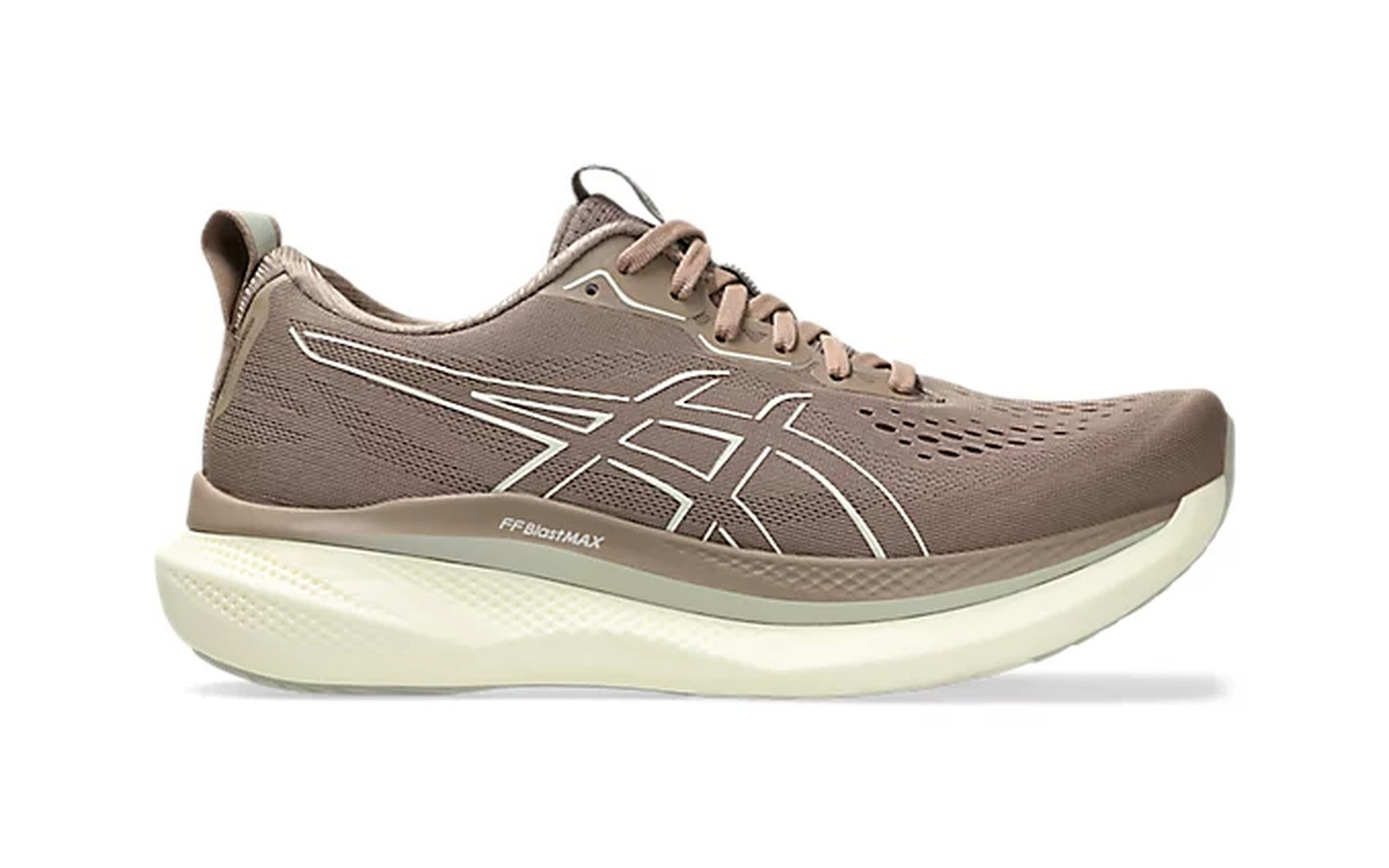
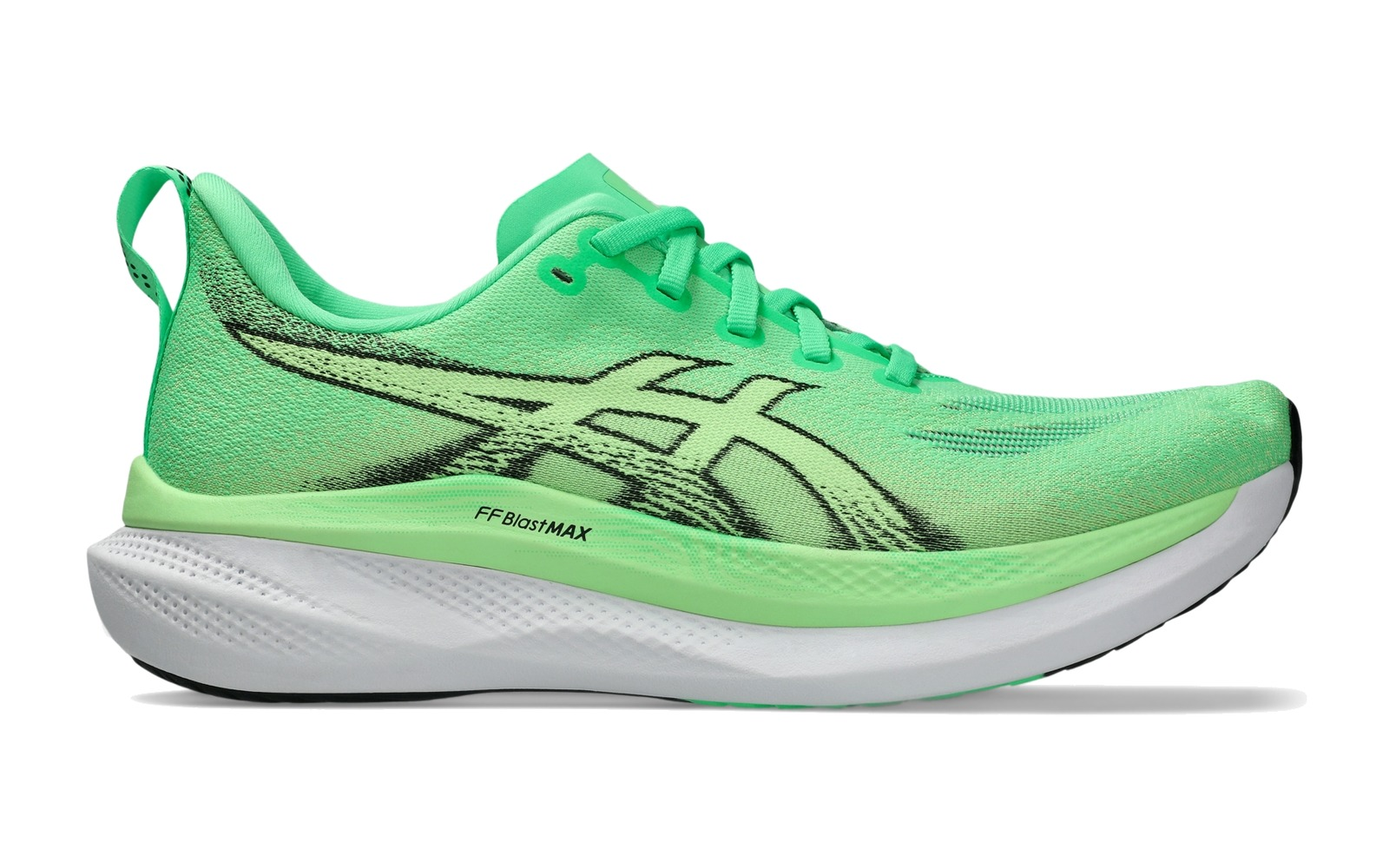
Research and replace weak shoe images

diff --git a/data/shoes.js b/data/shoes.js
@@ -7,7 +7,7 @@
 
   const SOURCE_POST =
     "https://gall.dcinside.com/mgallery/board/view/?id=running&no=1042108&page=1";
-  const IMAGE_VERSION = "20260529-official-side-3";
+  const IMAGE_VERSION = "20260530-image-research-1";
 
   const officialImages = {
     "adidas-sl-2": {"imageUrl": "https://assets.adidas.com/images/w_1880,f_auto,q_auto/cfd913d7af534d5e9177b2b5ac21b59a_9366/Adizero_SL2_Running_Shoes_Black_IF6761_HM1.jpg", "imageSourceUrl": "https://www.adidas.de/en/adizero-sl2-running-shoes/IF6761.html", "officialProductUrl": "https://www.adidas.de/en/adizero-sl2-running-shoes/IF6761.html", "displayName": "Adizero SL2", "imageFit": "contain", "imagePosition": "center", "imageScale": 0.94},
@@ -26,18 +26,18 @@
     "adidas-하이퍼부스트-엣지": {"imageUrl": "https://assets.adidas.com/images/w_1880,f_auto,q_auto/40bc238de20b46a7883c27238e9d13f1_9366/KI1916_01_00_standard.jpg", "imageSourceUrl": "https://www.adidas.com/us/hyperboost-edge-running-shoes/KI1916.html", "officialProductUrl": "https://www.adidas.com/us/hyperboost-edge-running-shoes/KI1916.html", "displayName": "Hyperboost Edge", "imageFit": "contain", "imagePosition": "center", "imageScale": 0.94},
     "asics-gt2000-14": {"imageUrl": "https://www.asics.com/nz/en-nz/media/catalog/product/image/148865b523/gt-2000-14-2e-wide.jpg", "imageSourceUrl": "https://www.asics.com/nz/en-nz/gt-2000-14-2e-mens-1011c055-400", "officialProductUrl": "https://www.asics.com/nz/en-nz/gt-2000-14-2e-mens-1011c055-400", "displayName": "GT-2000 14", "imageFit": "contain", "imagePosition": "center", "imageScale": 0.94},
     "asics-s4-요기리": {"imageUrl": "https://images.asics.com/is/image/asics/1013A158_301_SR_RT_GLB?$product$", "imageSourceUrl": "https://www.asics.com/jp/ja-jp/s4%2B-yogiri/p/1013A158-301.html", "officialProductUrl": "https://www.asics.com/jp/ja-jp/s4%2B-yogiri/p/1013A158-301.html", "displayName": "S4+ Yogiri", "imageFit": "contain", "imagePosition": "center", "imageScale": 0.94},
-    "asics-글라이드라이드-맥스-2": {"imageUrl": "https://images.asics.com/is/image/asics/1011B891_020_SR_RT_GLB?$product$", "imageSourceUrl": "https://images.asics.com/is/image/asics/1011B891_020_SR_RT_GLB?$product$", "officialProductUrl": "https://www.asics.com/", "displayName": "Glideride Max 2", "imageFit": "contain", "imagePosition": "center", "imageScale": 0.94},
+    "asics-글라이드라이드-맥스-2": {"imageUrl": "https://images.asics.com/is/image/asics/1011C156_300_SR_RT_GLB?wid=1600&hei=1200&fmt=jpg", "imageSourceUrl": "https://www.asics.com/jp/ja-jp/glideride-max-2/p/1011C156-300.html", "officialProductUrl": "https://www.asics.com/jp/ja-jp/glideride-max-2/p/1011C156-300.html", "displayName": "Glideride Max 2", "imageFit": "contain", "imagePosition": "center", "imageScale": 0.94},
     "asics-노바블라스트-5": {"imageUrl": "https://images.asics.com/is/image/asics/1011B974_400_SR_RT_GLB?$sfcc-product$", "imageSourceUrl": "https://www.asics.com/ph/en-ph/novablast-5/", "officialProductUrl": "https://www.asics.com/ph/en-ph/novablast-5/", "displayName": "Novablast 5", "imageFit": "contain", "imagePosition": "center", "imageScale": 0.94},
-    "asics-매직스피드-5": {"imageUrl": "https://images.asics.com/is/image/asics/1013A183_300_SR_RT_GLB?$product$", "imageSourceUrl": "https://images.asics.com/is/image/asics/1013A183_300_SR_RT_GLB?$product$", "officialProductUrl": "https://www.asics.com/", "displayName": "Magic Speed 5", "imageFit": "contain", "imagePosition": "center", "imageScale": 0.94},
+    "asics-매직스피드-5": {"imageUrl": "https://images.asics.com/is/image/asics/1013A183_300_SR_RT_GLB?wid=1600&hei=1200&fmt=jpg", "imageSourceUrl": "https://www.asics.com/jp/ja-jp/magic-speed-5/p/1013A183-300.html", "officialProductUrl": "https://www.asics.com/jp/ja-jp/magic-speed-5/p/1013A183-300.html", "displayName": "Magic Speed 5", "imageFit": "contain", "imagePosition": "center", "imageScale": 0.94},
     "asics-메가블라스트": {"imageUrl": "https://images.asics.com/is/image/asics/1013A170_300_SR_RT_GLB?$sfcc-product$", "imageSourceUrl": "https://www.asics.com/sg/en-sg/megablast/p/1013A170-300.html", "officialProductUrl": "https://www.asics.com/sg/en-sg/megablast/p/1013A170-300.html", "displayName": "Megablast", "imageFit": "contain", "imagePosition": "center", "imageScale": 0.94},
-    "asics-메타스피드-도쿄-스카이-엣지": {"imageUrl": "https://images.asics.com/is/image/asics/1013A162_600_SR_RT_GLB?$product$", "imageSourceUrl": "https://images.asics.com/is/image/asics/1013A162_600_SR_RT_GLB?$product$", "officialProductUrl": "https://www.asics.com/", "displayName": "Metaspeed Tokyo Sky Edge", "imageFit": "contain", "imagePosition": "center", "imageScale": 0.94},
-    "asics-메타스피드-레이": {"imageUrl": "https://images.asics.com/is/image/asics/1013A176_300_SR_RT_GLB?$product$", "imageSourceUrl": "https://images.asics.com/is/image/asics/1013A176_300_SR_RT_GLB?$product$", "officialProductUrl": "https://www.asics.com/", "displayName": "Metaspeed Ray", "imageFit": "contain", "imagePosition": "center", "imageScale": 0.94},
-    "asics-소닉블라스트": {"imageUrl": "https://images.asics.com/is/image/asics/1011C083_750_SR_RT_GLB?$product$", "imageSourceUrl": "https://images.asics.com/is/image/asics/1011C083_750_SR_RT_GLB?$product$", "officialProductUrl": "https://www.asics.com/", "displayName": "Sonicblast", "imageFit": "contain", "imagePosition": "center", "imageScale": 0.94},
-    "asics-슈퍼블라스트-3": {"imageUrl": "https://images.asics.com/is/image/asics/1013A177_750_SR_RT_GLB?$product$", "imageSourceUrl": "https://images.asics.com/is/image/asics/1013A177_750_SR_RT_GLB?$product$", "officialProductUrl": "https://www.asics.com/", "displayName": "Superblast 3", "imageFit": "contain", "imagePosition": "center", "imageScale": 0.94},
+    "asics-메타스피드-도쿄-스카이-엣지": {"imageUrl": "https://images.asics.com/is/image/asics/1013A162_600_SR_RT_GLB?wid=1600&hei=1200&fmt=jpg", "imageSourceUrl": "https://www.asics.com/jp/ja-jp/metaspeed-sky-tokyo/p/1013A162-300.html", "officialProductUrl": "https://www.asics.com/jp/ja-jp/metaspeed-sky-tokyo/p/1013A162-300.html", "displayName": "Metaspeed Tokyo Sky Edge", "imageFit": "contain", "imagePosition": "center", "imageScale": 0.94},
+    "asics-메타스피드-레이": {"imageUrl": "https://images.asics.com/is/image/asics/1013A176_300_SR_RT_GLB?wid=1600&hei=1200&fmt=jpg", "imageSourceUrl": "https://www.asics.com/us/en-us/metaspeed-ray/p/ANA_1013A176-300.html", "officialProductUrl": "https://www.asics.com/us/en-us/metaspeed-ray/p/ANA_1013A176-300.html", "displayName": "Metaspeed Ray", "imageFit": "contain", "imagePosition": "center", "imageScale": 0.94},
+    "asics-소닉블라스트": {"imageUrl": "https://images.asics.com/is/image/asics/1011C083_750_SR_RT_GLB?wid=1600&hei=1200&fmt=jpg", "imageSourceUrl": "https://www.asics.com/jp/ja-jp/sonicblast/p/1011C083-750.html", "officialProductUrl": "https://www.asics.com/jp/ja-jp/sonicblast/p/1011C083-750.html", "displayName": "Sonicblast", "imageFit": "contain", "imagePosition": "center", "imageScale": 0.94},
+    "asics-슈퍼블라스트-3": {"imageUrl": "https://images.asics.com/is/image/asics/1013A177_750_SR_RT_GLB?wid=1600&hei=1200&fmt=jpg", "imageSourceUrl": "https://corp.asics.com/jp/press/article/2026-02-16_superblast_3", "officialProductUrl": "https://corp.asics.com/jp/press/article/2026-02-16_superblast_3", "displayName": "Superblast 3", "imageFit": "contain", "imagePosition": "center", "imageScale": 0.94},
     "asics-에보라이드-스피드-3": {"imageUrl": "https://images.asics.com/is/image/asics/1011B969_101_SR_RT_GLB?$product$", "imageSourceUrl": "https://www.asics.com/jp/ja-jp/evoride-speed-3/p/1011B969-101.html", "officialProductUrl": "https://www.asics.com/jp/ja-jp/evoride-speed-3/p/1011B969-101.html", "displayName": "EvoRide Speed 3", "imageFit": "contain", "imagePosition": "center", "imageScale": 0.94},
     "asics-젤-큐물러스-28": {"imageUrl": "https://images.asics.com/is/image/asics/1011C143_001_SR_RT_GLB?$product$", "imageSourceUrl": "https://www.asics.com/za/en-za/gel-cumulus-28/p/0020064262-001", "officialProductUrl": "https://www.asics.com/za/en-za/gel-cumulus-28/p/0020064262-001", "displayName": "GEL-Cumulus 28", "imageFit": "contain", "imagePosition": "center", "imageScale": 0.94},
     "asics-젤님버스-28": {"imageUrl": "https://images.asics.com/is/image/asics/1011C127_001_SL_LT_GLB?$sfcc-product$", "imageSourceUrl": "https://www.asics.com/sg/en-sg/gel-nimbus-28/p/1011C127-001.html", "officialProductUrl": "https://www.asics.com/sg/en-sg/gel-nimbus-28/p/1011C127-001.html", "displayName": "GEL-Nimbus 28", "imageFit": "contain", "imagePosition": "center", "imageScale": 0.94},
-    "asics-젤카야노-33": {"imageUrl": "https://images.asics.com/is/image/asics/1011C167_001_SR_RT_GLB?$product$", "imageSourceUrl": "https://images.asics.com/is/image/asics/1011C167_001_SR_RT_GLB?$product$", "officialProductUrl": "https://www.asics.com/", "displayName": "GEL-Kayano 33", "imageFit": "contain", "imagePosition": "center", "imageScale": 0.94},
+    "asics-젤카야노-33": {"imageUrl": "https://images.asics.com/is/image/asics/1011C167_001_SR_RT_GLB?wid=1600&hei=1200&fmt=jpg", "imageSourceUrl": "https://www.asics.com/us/en-us/gel-kayano-33/p/ANA_1011C167-001.html", "officialProductUrl": "https://www.asics.com/us/en-us/gel-kayano-33/p/ANA_1011C167-001.html", "displayName": "GEL-Kayano 33", "imageFit": "contain", "imagePosition": "center", "imageScale": 0.94},
     "brooks-고스트-17": {"imageUrl": "https://www.brooksrunning.com/on/demandware.static/-/Sites-brooks-master-catalog/default/dwe6b5d0cf/original/110442/110442-112-l-ghost-17-mens-neutral-cushion-running-shoe.png", "imageSourceUrl": "https://www.brooksrunning.com/en_ca/mens/shoes/road-running-shoes/ghost-17/110442.html", "officialProductUrl": "https://www.brooksrunning.com/en_ca/mens/shoes/road-running-shoes/ghost-17/110442.html", "displayName": "Ghost 17", "imageFit": "contain", "imagePosition": "center", "imageScale": 0.94},
     "brooks-고스트-맥스-3": {"imageUrl": "https://www.brooksrunning.com/on/demandware.static/-/Sites-brooks-master-catalog/default/dw835fdfd2/original/110464/110464-162-l-ghost-max-3-mens-max-cushion-road-running-shoe.png", "imageSourceUrl": "https://www.brooksrunning.com/en_gb/mens/road-running-shoes/ghost-max-3/110464.html?dwvar_110464_color=002", "officialProductUrl": "https://www.brooksrunning.com/en_gb/mens/road-running-shoes/ghost-max-3/110464.html?dwvar_110464_color=002", "displayName": "Ghost Max 3", "imageFit": "contain", "imagePosition": "center", "imageScale": 0.94},
     "brooks-글리세린-23": {"imageUrl": "https://www.brooksrunning.com/on/demandware.static/-/Sites-brooks-master-catalog/default/dw1c1f8001/original/110476/110476-154-l-glycerin-23-mens-dynamic-cushion-road-running-shoe.png", "imageSourceUrl": "https://www.brooksrunning.com/fr_ca/mens/shoes/road-running-shoes/glycerin-23/110476.html", "officialProductUrl": "https://www.brooksrunning.com/fr_ca/mens/shoes/road-running-shoes/glycerin-23/110476.html", "displayName": "Glycerin 23", "imageFit": "contain", "imagePosition": "center", "imageScale": 0.94},
@@ -61,15 +61,15 @@
     "hoka-아라히-8": {"imageUrl": "https://media.au.hoka.com/cdn-cgi/image/fit=scale-down,f=auto,w=1200/products/1fc0a6bb-bd71-4cd9-b8d7-8dd9abe9ec02/f7097256/1168691-dzlp_dzlp_01.jpg", "imageSourceUrl": "https://au.hoka.com/products/w-arahi-8-1168691-dzlp-dzlp", "officialProductUrl": "https://au.hoka.com/products/w-arahi-8-1168691-dzlp-dzlp", "displayName": "Arahi 8", "imageFit": "contain", "imagePosition": "center", "imageScale": 0.94},
     "hoka-클리프톤-10": {"imageUrl": "https://media.au.hoka.com/cdn-cgi/image/fit=scale-down,f=auto,w=1280/products/5bbe6035-0476-4ca8-b48e-329892455e7d/0f41bce3/1162031-sjd_sjd_01.jpg", "imageSourceUrl": "https://au.hoka.com/categories/styles/clifton/womens", "officialProductUrl": "https://au.hoka.com/categories/styles/clifton/womens", "displayName": "Clifton 10", "imageFit": "contain", "imagePosition": "center", "imageScale": 0.94},
     "mizuno-네오-비스타-2": {"imageUrl": "https://emea.mizuno.com/dw/image/v2/BDBS_PRD/on/demandware.static/-/Sites-masterCatalog_Mizuno/default/dwf4f9df35/AW25/Running%20AW25%20Footwear/SH_J1GC253401_00.png?sw=900&sh=900", "imageSourceUrl": "https://emea.mizuno.com/eu/en/mizuno-neo-vista-2/J1GC253401.html", "officialProductUrl": "https://emea.mizuno.com/eu/en/mizuno-neo-vista-2/J1GC253401.html", "displayName": "Neo Vista 2", "imageFit": "contain", "imagePosition": "center", "imageScale": 0.94},
-    "mizuno-네오-젠-2": {"imageUrl": "https://jpn.mizuno.com/static/mallDefault/images/goods/zoom1000/SH_J1GC268601_02_XL.jpg", "imageSourceUrl": "https://jpn.mizuno.com/static/mallDefault/images/goods/zoom1000/SH_J1GC268601_02_XL.jpg", "officialProductUrl": "https://jpn.mizuno.com/", "displayName": "Neo Zen 2", "imageFit": "contain", "imagePosition": "center", "imageScale": 0.94},
+    "mizuno-네오-젠-2": {"imageUrl": "https://jpn.mizuno.com/static/mallDefault/images/goods/zoom1000/SH_J1GC268601_02_XL.jpg", "imageSourceUrl": "https://kor.mizuno.com/product/detail.html?product_no=11331&cate_no=1155&display_group=1", "officialProductUrl": "https://kor.mizuno.com/product/detail.html?product_no=11331&cate_no=1155&display_group=1", "displayName": "Neo Zen 2", "imageFit": "contain", "imagePosition": "center", "imageScale": 0.94},
     "mizuno-네오-코스모": {"imageUrl": "https://emea.mizuno.com/dw/image/v2/BDBS_PRD/on/demandware.static/-/Sites-masterCatalog_Mizuno/default/dwe14d8b78/SS26/Footwear/SH_J1GC251051_00.png?sw=900&sh=900", "imageSourceUrl": "https://emea.mizuno.com/eu/en-gb/mizuno-neo-cosmo/J1GC251051.html", "officialProductUrl": "https://emea.mizuno.com/eu/en-gb/mizuno-neo-cosmo/J1GC251051.html", "displayName": "Neo Cosmo", "imageFit": "contain", "imagePosition": "center", "imageScale": 0.94},
     "mizuno-웨이브-라이더-29": {"imageUrl": "https://emea.mizuno.com/dw/image/v2/BDBS_PRD/on/demandware.static/-/Sites-masterCatalog_Mizuno/default/dw9b0354e5/AW25/Footwear/SH_J1GC259302_03.png-1000x1000-s_i-c_t_White-f_png.png?sw=900&sh=900", "imageSourceUrl": "https://emea.mizuno.com/eu/fr-fr/wave-rider-29/J1GC259302.html", "officialProductUrl": "https://emea.mizuno.com/eu/fr-fr/wave-rider-29/J1GC259302.html", "displayName": "Wave Rider 29", "imageFit": "contain", "imagePosition": "center", "imageScale": 0.94},
     "mizuno-웨이브-스카이-9": {"imageUrl": "https://emea.mizuno.com/dw/image/v2/BDBS_PRD/on/demandware.static/-/Sites-masterCatalog_Mizuno/default/dw9f487e28/AW25/Footwear/SH_J1GC259010_00.png?sw=900&sh=900", "imageSourceUrl": "https://emea.mizuno.com/eu/en/wave-sky-9/J1GC259010.html", "officialProductUrl": "https://emea.mizuno.com/eu/en/wave-sky-9/J1GC259010.html", "displayName": "Wave Sky 9", "imageFit": "contain", "imagePosition": "center", "imageScale": 0.94},
     "mizuno-웨이브-인스파이어-22": {"imageUrl": "https://emea.mizuno.com/dw/image/v2/BDBS_PRD/on/demandware.static/-/Sites-masterCatalog_Mizuno/default/dw1d62d5cb/SS26/Footwear/SH_J1GD264421_00.png?sw=900&sh=900", "imageSourceUrl": "https://emea.mizuno.com/eu/fr/wave-inspire-22/J1GD264421.html", "officialProductUrl": "https://emea.mizuno.com/eu/fr/wave-inspire-22/J1GD264421.html", "displayName": "Wave Inspire 22", "imageFit": "contain", "imagePosition": "center", "imageScale": 0.94},
     "mizuno-웨이브-호라이즌-8": {"imageUrl": "https://emea.mizuno.com/dw/image/v2/BDBS_PRD/on/demandware.static/-/Sites-masterCatalog_Mizuno/default/dwb1ad8b3b/AW25/Footwear/SH_J1GD252671_11.png-1000x1000-s_i-c_t_White-f_png.png?sw=900&sh=900", "imageSourceUrl": "https://emea.mizuno.com/eu/en-fr/wave-horizon-8/J1GD252671.html", "officialProductUrl": "https://emea.mizuno.com/eu/en-fr/wave-horizon-8/J1GD252671.html", "displayName": "Wave Horizon 8", "imageFit": "contain", "imagePosition": "center", "imageScale": 0.94},
-    "mizuno-하이퍼퀵-엘리트": {"imageUrl": "https://mizuno.com.au/cdn/shop/files/SH_J1GC267101_00_a1815f40-422a-4ffc-8255-fda9fa8336e4_1024x1024.png?v=1764560482", "imageSourceUrl": "https://mizuno.com.au/products/hyperwarp-elite-unisex", "officialProductUrl": "https://mizuno.com.au/products/hyperwarp-elite-unisex", "displayName": "Hyperquick Elite", "imageFit": "contain", "imagePosition": "center", "imageScale": 0.94},
-    "mizuno-하이퍼퀵-퓨어": {"imageUrl": "https://jpn.mizuno.com/static/mallDefault/images/goods/zoom1000/SH_J1GC267001_02_XL.jpg", "imageSourceUrl": "https://jpn.mizuno.com/static/mallDefault/images/goods/zoom1000/SH_J1GC267001_02_XL.jpg", "officialProductUrl": "https://jpn.mizuno.com/", "displayName": "Hyperquick Pure", "imageFit": "contain", "imagePosition": "center", "imageScale": 0.94},
-    "mizuno-하이퍼퀵-프로": {"imageUrl": "https://jpn.mizuno.com/static/mallDefault/images/goods/zoom1000/SH_J1GC267401_02_XL.jpg", "imageSourceUrl": "https://jpn.mizuno.com/static/mallDefault/images/goods/zoom1000/SH_J1GC267401_02_XL.jpg", "officialProductUrl": "https://jpn.mizuno.com/", "displayName": "Hyperquick Pro", "imageFit": "contain", "imagePosition": "center", "imageScale": 0.94},
+    "mizuno-하이퍼퀵-엘리트": {"imageUrl": "https://mizuno.com.au/cdn/shop/files/SH_J1GC267101_00_a1815f40-422a-4ffc-8255-fda9fa8336e4_1024x1024.png?v=1764560482", "imageSourceUrl": "https://kor.mizuno.com/product/hyperwarp-elite/11319/", "officialProductUrl": "https://kor.mizuno.com/product/hyperwarp-elite/11319/", "displayName": "Hyperquick Elite", "imageFit": "contain", "imagePosition": "center", "imageScale": 0.94},
+    "mizuno-하이퍼퀵-퓨어": {"imageUrl": "https://jpn.mizuno.com/static/mallDefault/images/goods/zoom1000/SH_J1GC267001_02_XL.jpg", "imageSourceUrl": "https://kor.mizuno.com/product/hyperwarp-pure/11317/", "officialProductUrl": "https://kor.mizuno.com/product/hyperwarp-pure/11317/", "displayName": "Hyperquick Pure", "imageFit": "contain", "imagePosition": "center", "imageScale": 0.94},
+    "mizuno-하이퍼퀵-프로": {"imageUrl": "https://jpn.mizuno.com/static/mallDefault/images/goods/zoom1000/SH_J1GC267401_02_XL.jpg", "imageSourceUrl": "https://kor.mizuno.com/product/hyperwarp-pro/11322/", "officialProductUrl": "https://kor.mizuno.com/product/hyperwarp-pro/11322/", "displayName": "Hyperquick Pro", "imageFit": "contain", "imagePosition": "center", "imageScale": 0.94},
     "new-balance-1080-v15": {"imageUrl": "https://www.newbalance.com.ar/on/demandware.static/-/Sites-siteCatalog_NBEU/default/dwf3904196/new_images/N10225075/N10225075070550/N10225075070550-1.jpeg", "imageSourceUrl": "https://www.newbalance.com.ar/hombre-zapatillas-N10225075090550.html", "officialProductUrl": "https://www.newbalance.com.ar/hombre-zapatillas-N10225075090550.html", "displayName": "Fresh Foam X 1080v15", "imageFit": "contain", "imagePosition": "center", "imageScale": 0.94},
     "new-balance-860-v15": {"imageUrl": "https://nb.scene7.com/is/image/NB/m86039g_nb_02_i?wid=1200&hei=1200", "imageSourceUrl": "https://nb.scene7.com/is/image/NB/m86039g_nb_02_i?wid=1200&hei=1200", "officialProductUrl": "https://www.newbalance.com/", "displayName": "Fresh Foam X 860v15", "imageFit": "contain", "imagePosition": "center", "imageScale": 0.94},
     "new-balance-880-v15": {"imageUrl": "https://nb.scene7.com/is/image/NB/m880t15_nb_05_i?$pdpflexf2$&wid=880&hei=880", "imageSourceUrl": "https://www.newbalance.com/pd/fresh-foam-x-880v15/M880T15-D-10.html", "officialProductUrl": "https://www.newbalance.com/pd/fresh-foam-x-880v15/M880T15-D-10.html", "displayName": "Fresh Foam X 880v15", "imageFit": "contain", "imagePosition": "center", "imageScale": 0.94},
@@ -106,9 +106,9 @@
     "on-클라우드붐-맥스": {"imageUrl": "https://images.ctfassets.net/hnk2vsx53n6l/7i1M8zKDLjSNQauVluXEFr/23783c474eb5fd3ae814726fe8707253/a86342d07a57c82078e40f3015cd780a180f112f.png", "imageSourceUrl": "https://www.on.com/en-de/products/cloudboom-max-m-3mf3031", "officialProductUrl": "https://www.on.com/en-de/products/cloudboom-max-m-3mf3031", "displayName": "Cloudboom Max", "imageFit": "contain", "imagePosition": "center", "imageScale": 0.94},
     "on-클라우드붐-스트라이크": {"imageUrl": "https://images.ctfassets.net/hnk2vsx53n6l/6mX7Bil4xRVWLdemBaJhgK/a035a88cd57a57a95f458f9e7f4059f4/8e8057bab04509864aab051417d33ddb169f6f7f.png", "imageSourceUrl": "https://www.on.com/en-us/products/cloudboom-strike-ls-u-3ue3001", "officialProductUrl": "https://www.on.com/en-us/products/cloudboom-strike-ls-u-3ue3001", "displayName": "Cloudboom Strike", "imageFit": "contain", "imagePosition": "center", "imageScale": 0.94},
     "on-클라우드붐-스트라이크-ls": {"imageUrl": "https://images.ctfassets.net/hnk2vsx53n6l/6mX7Bil4xRVWLdemBaJhgK/a035a88cd57a57a95f458f9e7f4059f4/8e8057bab04509864aab051417d33ddb169f6f7f.png", "imageSourceUrl": "https://www.on.com/en-us/products/cloudboom-strike-ls-u-3ue3001", "officialProductUrl": "https://www.on.com/en-us/products/cloudboom-strike-ls-u-3ue3001", "displayName": "Cloudboom Strike LS", "imageFit": "contain", "imagePosition": "center", "imageScale": 0.94},
-    "puma-디비에이트-나이트로-4": {"imageUrl": "https://images.puma.com/image/upload/f_auto,q_auto,b_rgb:fafafa,w_2000,h_2000/global/312128/03/sv01/fnd/PNA/fmt/png/Deviate-NITRO%E2%84%A2-Elite-4-Women's-Road-Running-Shoes", "imageSourceUrl": "https://us.puma.com/us/en/pd/deviate-nitro-elite-4-womens-road-running-shoes/312128", "officialProductUrl": "https://us.puma.com/us/en/pd/deviate-nitro-elite-4-womens-road-running-shoes/312128", "displayName": "Deviate Nitro 4", "imageFit": "contain", "imagePosition": "center", "imageScale": 0.94},
-    "puma-디비에이트-나이트로-엘리트-4": {"imageUrl": "https://images.puma.com/image/upload/f_auto,q_auto,b_rgb:fafafa,w_600,h_600/global/312959/01/sv01/fnd/PNA/fmt/png/PUMA-x-HYROX-Deviate-NITRO%E2%84%A2-Elite-4-Men's-Running-Shoes", "imageSourceUrl": "https://us.puma.com/us/en/pd/puma-x-hyrox-deviate-nitro-elite-4-mens-running-shoes/312959", "officialProductUrl": "https://us.puma.com/us/en/pd/puma-x-hyrox-deviate-nitro-elite-4-mens-running-shoes/312959", "displayName": "Deviate Nitro Elite 4", "imageFit": "contain", "imagePosition": "center", "imageScale": 0.94},
-    "puma-디비에이트-퓨어-나이트로": {"imageUrl": "https://images.puma.com/image/upload/f_auto,q_auto,b_rgb:fafafa,w_2000,h_2000/global/312905/01/sv01/fnd/PNA/fmt/png/PUMA-x-HYROX-Deviate-NITRO%E2%84%A2-4-Women's-Running-Shoes", "imageSourceUrl": "https://us.puma.com/us/en/pd/puma-x-hyrox-deviate-nitro-4-womens-running-shoes/312905", "officialProductUrl": "https://us.puma.com/us/en/pd/puma-x-hyrox-deviate-nitro-4-womens-running-shoes/312905", "displayName": "Deviate Pure Nitro", "imageFit": "contain", "imagePosition": "center", "imageScale": 0.94},
+    "puma-디비에이트-나이트로-4": {"imageUrl": "https://images.puma.com/image/upload/f_auto,q_auto,b_rgb:fafafa,w_2000,h_2000/global/312123/01/sv01/fnd/PNA/fmt/png/Deviate-NITRO%E2%84%A2-4-Men%27s-Road-Running-Shoes", "imageSourceUrl": "https://ca.puma.com/ca/en/pd/deviate-nitro-4-mens-road-running-shoes/312123", "officialProductUrl": "https://ca.puma.com/ca/en/pd/deviate-nitro-4-mens-road-running-shoes/312123", "displayName": "Deviate Nitro 4", "imageFit": "contain", "imagePosition": "center", "imageScale": 0.94},
+    "puma-디비에이트-나이트로-엘리트-4": {"imageUrl": "https://images.puma.com/image/upload/f_auto,q_auto,b_rgb:fafafa,w_2000,h_2000/global/312127/09/sv01/fnd/IND/fmt/png/Deviate-NITRO%E2%84%A2-Elite-4-Men%27s-Running-Shoes", "imageSourceUrl": "https://in.puma.com/in/en/pd/deviate-nitro-elite-4-mens-running-shoes/312127?swatch=09", "officialProductUrl": "https://in.puma.com/in/en/pd/deviate-nitro-elite-4-mens-running-shoes/312127?swatch=09", "displayName": "Deviate Nitro Elite 4", "imageFit": "contain", "imagePosition": "center", "imageScale": 0.94},
+    "puma-디비에이트-퓨어-나이트로": {"imageUrl": "https://images.puma.com/image/upload/f_auto,q_auto,b_rgb:fafafa,w_2000,h_2000/global/313904/06/sv01/fnd/EEA/fmt/png/Deviate-Pure-NITRO%E2%84%A2-Running-Shoes-Men", "imageSourceUrl": "https://eu.puma.com/nl/en/pd/deviate-pure-nitro-running-shoes-men/313904?swatch=06", "officialProductUrl": "https://eu.puma.com/nl/en/pd/deviate-pure-nitro-running-shoes-men/313904?swatch=06", "displayName": "Deviate Pure Nitro", "imageFit": "contain", "imagePosition": "center", "imageScale": 0.94},
     "puma-매그니파이-나이트로-3": {"imageUrl": "https://images.puma.com/image/upload/f_auto,q_auto,b_rgb:fafafa,w_2000,h_2000/global/311046/06/sv01/fnd/PNA/fmt/png/Magnify-NITRO%E2%84%A2-3-Homme", "imageSourceUrl": "https://ca.puma.com/ca/fr/pd/magnify-nitro-3-homme/311046", "officialProductUrl": "https://ca.puma.com/ca/fr/pd/magnify-nitro-3-homme/311046", "displayName": "Magnify Nitro 3", "imageFit": "contain", "imagePosition": "center", "imageScale": 0.94},
     "puma-매그맥스-나이트로-2": {"imageUrl": "https://images.puma.com/image/upload/f_auto,q_auto,b_rgb:fafafa,w_2000,h_2000/global/312125/01/sv01/fnd/PNA/fmt/png/MagMax-NITRO%E2%84%A2-2-Men's-Road-Running-Shoes", "imageSourceUrl": "https://ca.puma.com/ca/en/pd/magmax-nitro-2-mens-road-running-shoes/312125", "officialProductUrl": "https://ca.puma.com/ca/en/pd/magmax-nitro-2-mens-road-running-shoes/312125", "displayName": "MagMax Nitro 2", "imageFit": "contain", "imagePosition": "center", "imageScale": 0.94},
     "puma-벨로시티-나이트로-4": {"imageUrl": "https://images.puma.com/image/upload/f_auto,q_auto,b_rgb:fafafa,w_2000,h_2000/global/311912/01/sv01/fnd/PNA/fmt/png/PUMA-x-HYROX-Velocity-NITRO%E2%84%A2-4-Women's-Running-Shoes", "imageSourceUrl": "https://ca.puma.com/ca/en/pd/puma-x-hyrox-velocity-nitro-4-womens-running-shoes/311912", "officialProductUrl": "https://ca.puma.com/ca/en/pd/puma-x-hyrox-velocity-nitro-4-womens-running-shoes/311912", "displayName": "Velocity Nitro 4", "imageFit": "contain", "imagePosition": "center", "imageScale": 0.94},
@@ -126,7 +126,7 @@
     "saucony-킨바라-16": {"imageUrl": "https://media.saucony.com.au/cdn-cgi/image/fit=scale-down,f=auto,w=1600/products/2231ff13-ad60-481b-a610-2132d80a249b/d9c4cdb5/s21020-97_2.jpg", "imageSourceUrl": "https://www.saucony.com.au/products/m-kinvara-16-s21020-97-grn", "officialProductUrl": "https://www.saucony.com.au/products/m-kinvara-16-s21020-97-grn", "displayName": "Kinvara 16", "imageFit": "contain", "imagePosition": "center", "imageScale": 0.94},
     "saucony-타이드-2": {"imageUrl": "https://media.saucony.com.au/cdn-cgi/image/fit=scale-down,f=auto,w=1600/products/f06b81f4-5316-44dd-85af-6262d6e655b2/s28216-2_1.jpg", "imageSourceUrl": "https://www.saucony.com.au/products/m-tide-2-s28216-2-wht", "officialProductUrl": "https://www.saucony.com.au/products/m-tide-2-s28216-2-wht", "displayName": "Tide 2", "imageFit": "contain", "imagePosition": "center", "imageScale": 0.94},
     "saucony-템퍼스-3": {"imageUrl": "https://media.saucony.com.au/products/91c6b3c3-9e7a-41c4-9eb5-fb34ac22e57e/s10720-18_1.jpg", "imageSourceUrl": "https://www.saucony.com.au/categories/collections/running/tempus", "officialProductUrl": "https://www.saucony.com.au/categories/collections/running/tempus", "displayName": "Tempus 3", "imageFit": "contain", "imagePosition": "center", "imageScale": 0.94},
-    "saucony-트라이엄프-24": {"imageUrl": "https://media.saucony.com.au/products/43f5227f-3573-45c9-a613-aa1521807850/s20881-20_1.jpg", "imageSourceUrl": "https://www.saucony.com.au/products/mtriumph-21-fsb", "officialProductUrl": "https://www.saucony.com.au/products/mtriumph-21-fsb", "displayName": "Triumph 24", "imageFit": "contain", "imagePosition": "center", "imageScale": 0.94},
+    "saucony-트라이엄프-24": {"imageUrl": "", "imageSourceUrl": "https://www.saucony.com/en/triumph-24/", "officialProductUrl": "https://www.saucony.com/en/triumph-24/", "displayName": "Triumph 24", "imageFit": "contain", "imagePosition": "center", "imageScale": 0.94},
     "saucony-허리케인-25": {"imageUrl": "https://s7d4.scene7.com/is/image/WolverineWorldWide/S11026-131_1?$dw-large$", "imageSourceUrl": "https://www.saucony.com/en/hurricane-25/60325W.html", "officialProductUrl": "https://www.saucony.com/en/hurricane-25/60325W.html", "displayName": "Hurricane 25", "imageFit": "contain", "imagePosition": "center", "imageScale": 0.94},
   };
 

diff --git a/index.html b/index.html
@@ -4,7 +4,7 @@
     <meta charset="UTF-8" />
     <meta name="viewport" content="width=device-width, initial-scale=1.0" />
     <title>러닝화 추천표</title>
-    <link rel="stylesheet" href="styles.css?v=20260529-official-side-3" />
+    <link rel="stylesheet" href="styles.css?v=20260530-image-research-1" />
   </head>
   <body>
     <header class="topbar">
@@ -197,7 +197,7 @@
       <p>가격 조회, 최저가 검색, 알림은 다음 단계 기능으로 예약되어 있습니다.</p>
     </footer>
 
-    <script src="data/shoes.js?v=20260529-official-side-3"></script>
-    <script src="app.js?v=20260529-official-side-3"></script>
+    <script src="data/shoes.js?v=20260530-image-research-1"></script>
+    <script src="app.js?v=20260530-image-research-1"></script>
   </body>
 </html>
